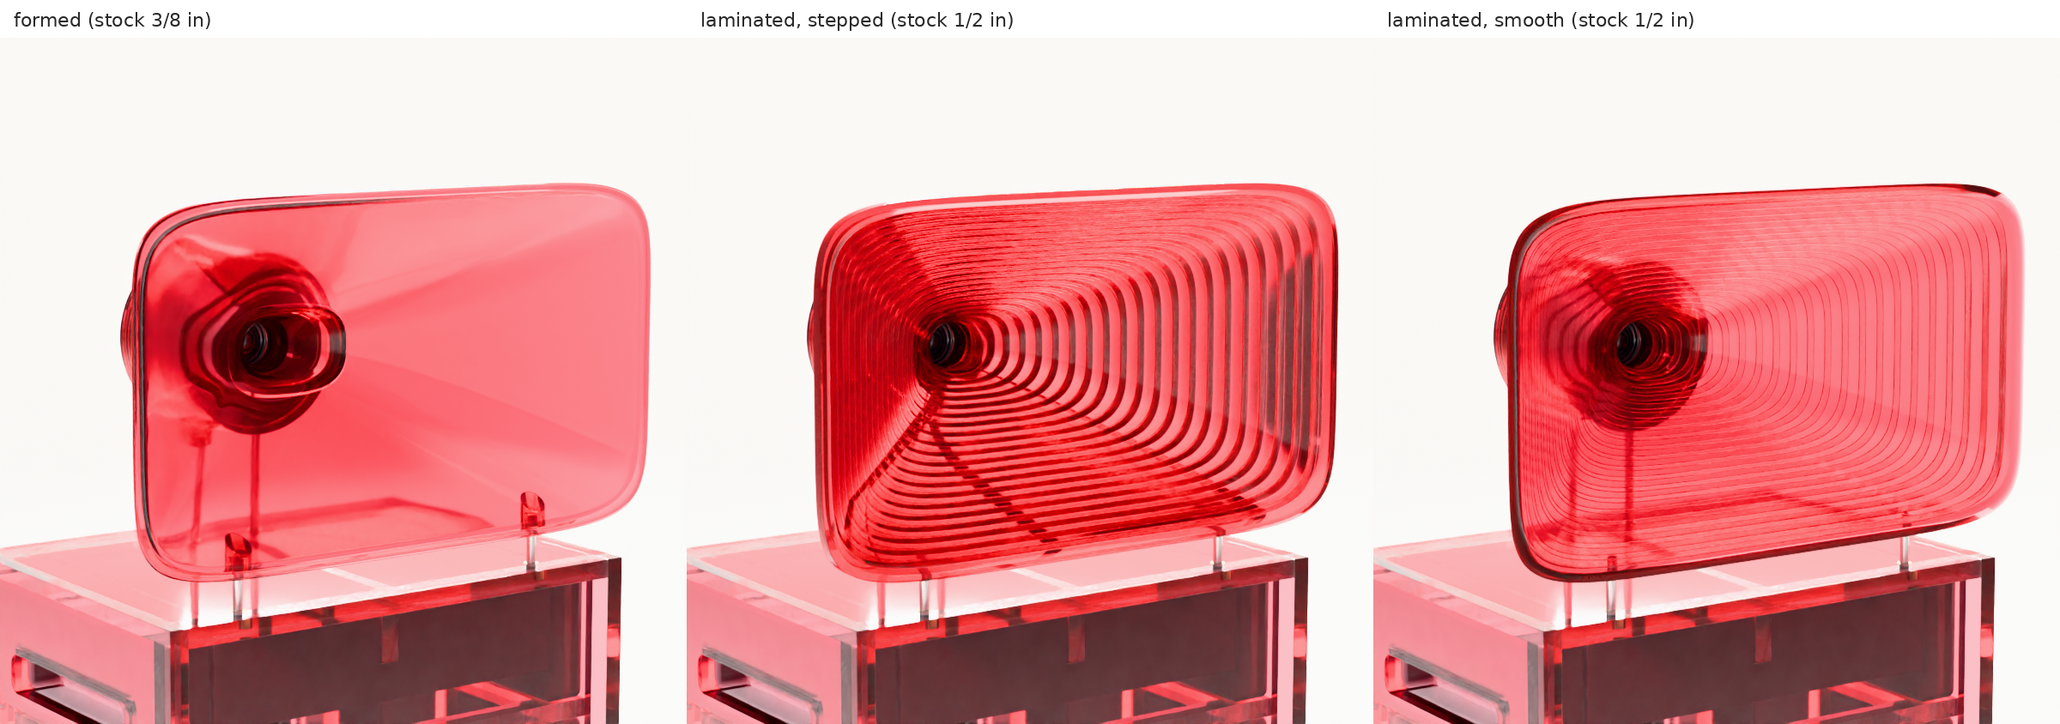
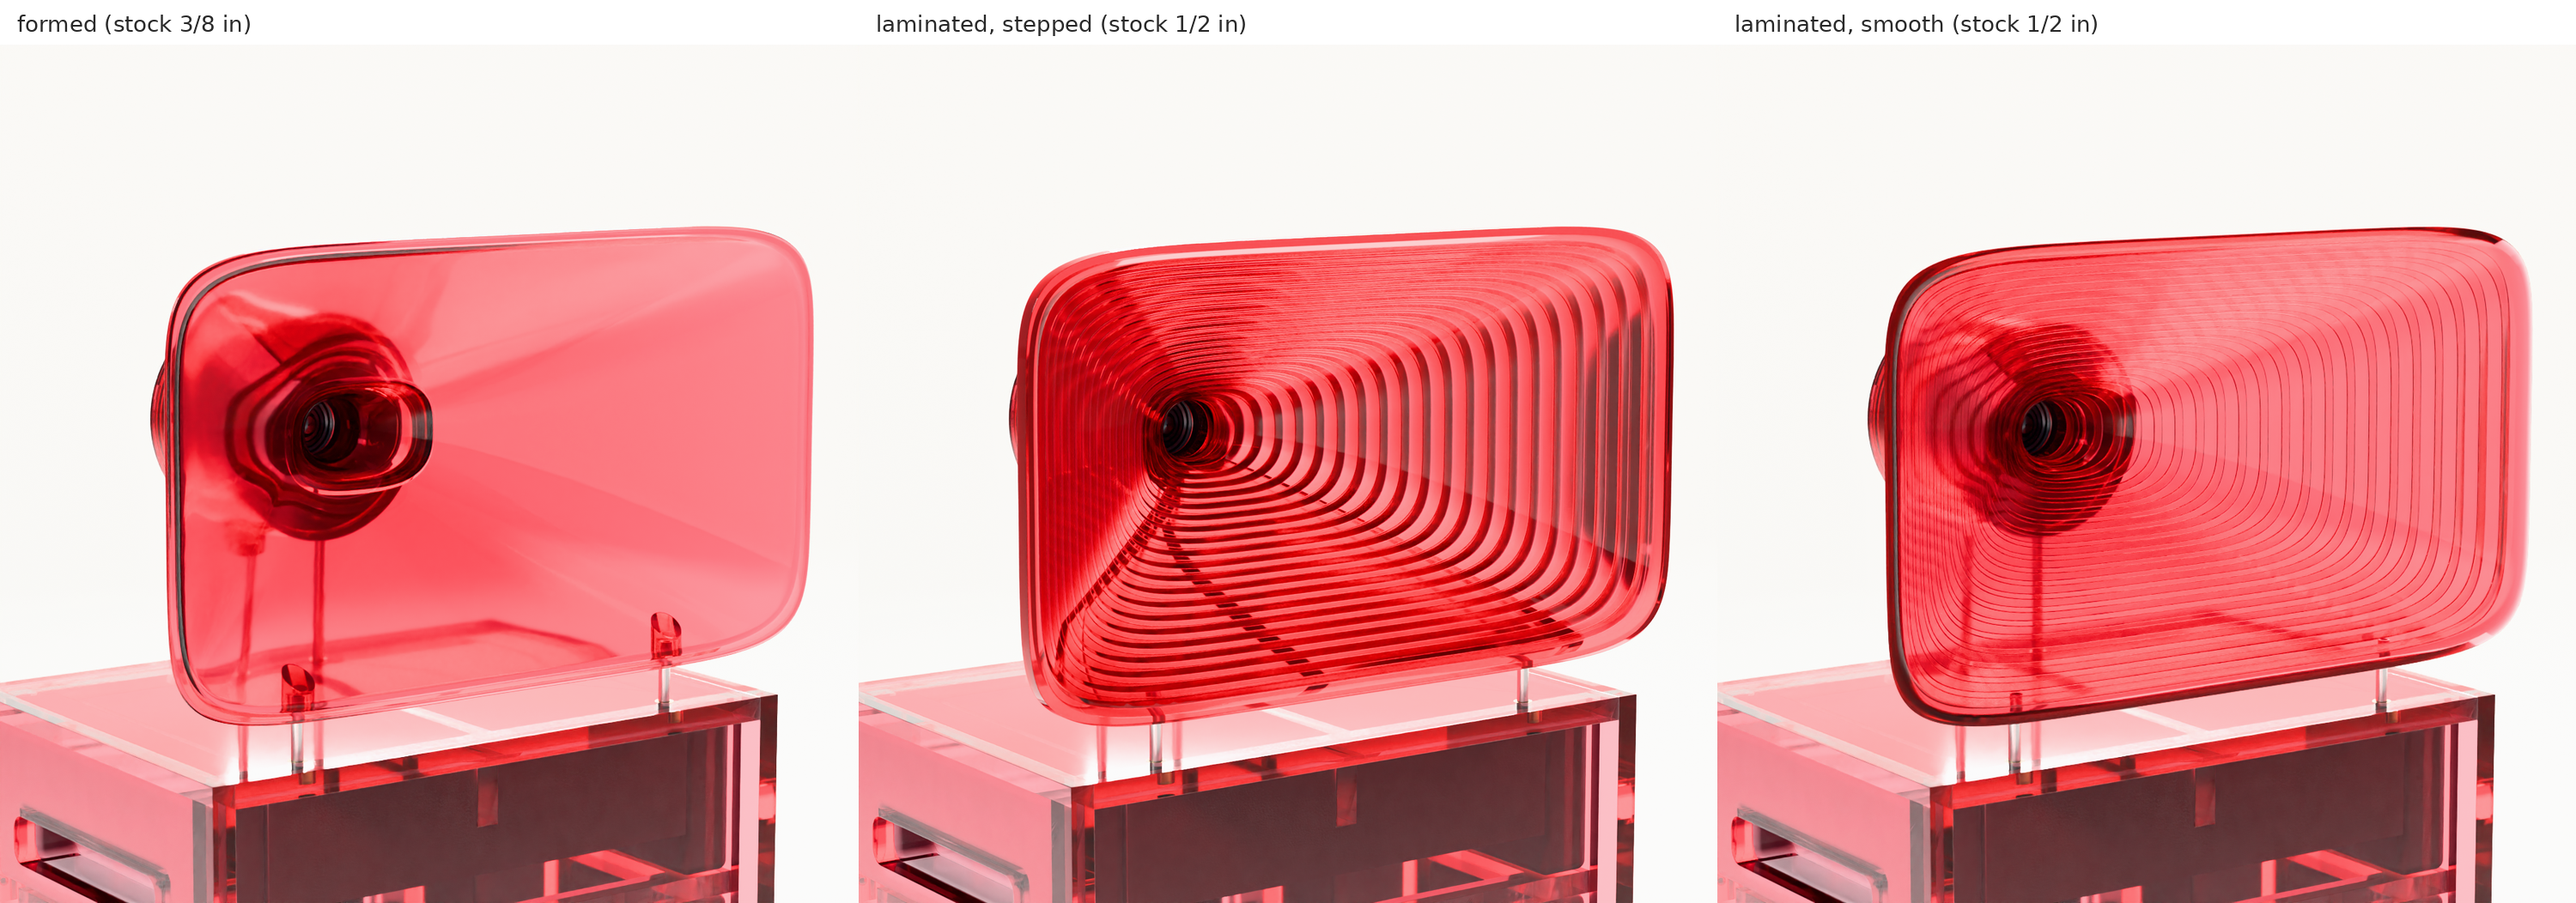
barkhorn: the horn choice's side-by-side sheets rebuilt from the finals; notes
Claude-Session: https://claude.ai/code/session_01CsZ9sPVytkpnrfV4BgTgfB

diff --git a/renders/2026-10-31/barkhorn/horn-choice/NOTES.md b/renders/2026-10-31/barkhorn/horn-choice/NOTES.md
@@ -12,10 +12,10 @@ off-cuts are measured.
 
 | file | what |
 |---|---|
-| `compare-ember.png`, `compare-smoke.png` | the three routes side by side (proofs) |
-| `choice-{formed,stepped,smooth}-{ember,smoke}.png` | each route at full size (1600 x 1600, 128 samples) |
+| `compare-ember.png`, `compare-smoke.png` | the three routes side by side, from the finals |
+| `choice-{formed,stepped,smooth}-{ember,smoke}.png` | each route: the stepped two at 1600 x 1600 and 128 samples, the rest at 1200 x 1200 and 96 (the 2-hour render limit) |
 | `choice-terraces-ember.png` | the stepped horn's terraces close |
-| `lineup-stock.png` | left to right: Ember as on the site, Ember in stock sheet, Smoke as on the site, Smoke in stock sheet; the stock two with the stepped laminated horn |
+| `lineup-stock.png` (1800 x 1013) | left to right: Ember as on the site, Ember in stock sheet, Smoke as on the site, Smoke in stock sheet; the stock two with the stepped laminated horn |
 | `proofs/` | half size, 48 samples |
 
 Shots: `spinoffs/barkhorn/campaign/shots.py` (`horn_choice`, `lineup`). Flavours: `spinoffs/barkhorn/stock_colours.json`.
